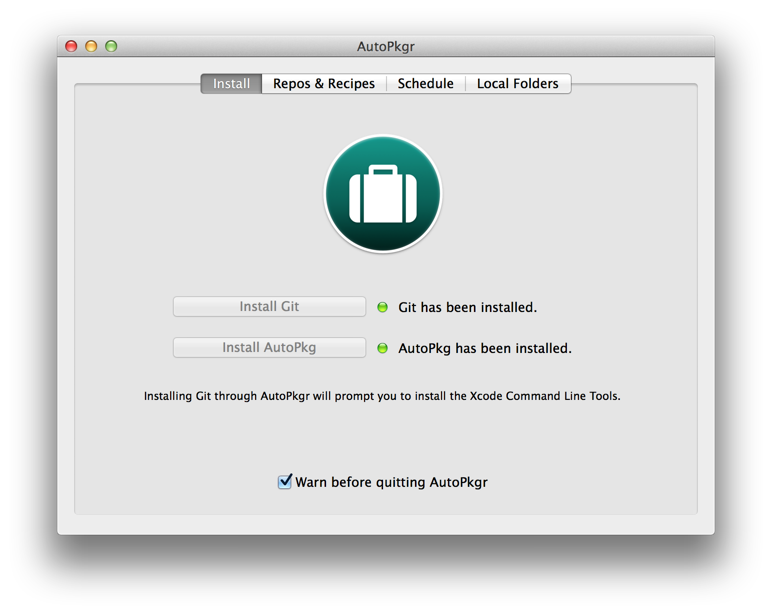
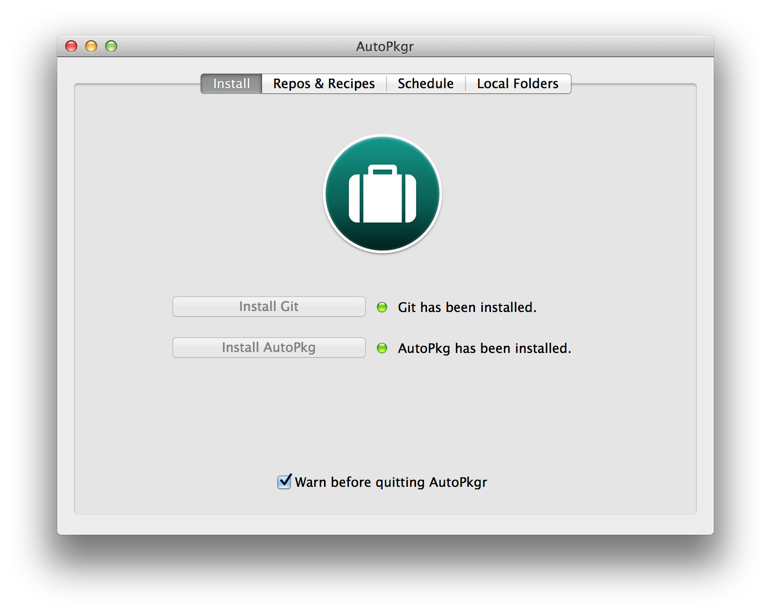
Updated doc to reflect new Git install process.

diff --git a/README.md b/README.md
@@ -44,7 +44,7 @@ Usage
 1.  On first launch, you'll see the configuration window:
     ![Install](doc-images/config_tab1.png)
 
-1.  Click the button to **Install Git** if needed. (This will prompt you to install the Xcode Command Line Tools.)
+1.  Click the button to **Install Git** if needed.
 
 1.  Click the button to **Install AutoPkg** if needed.
 
